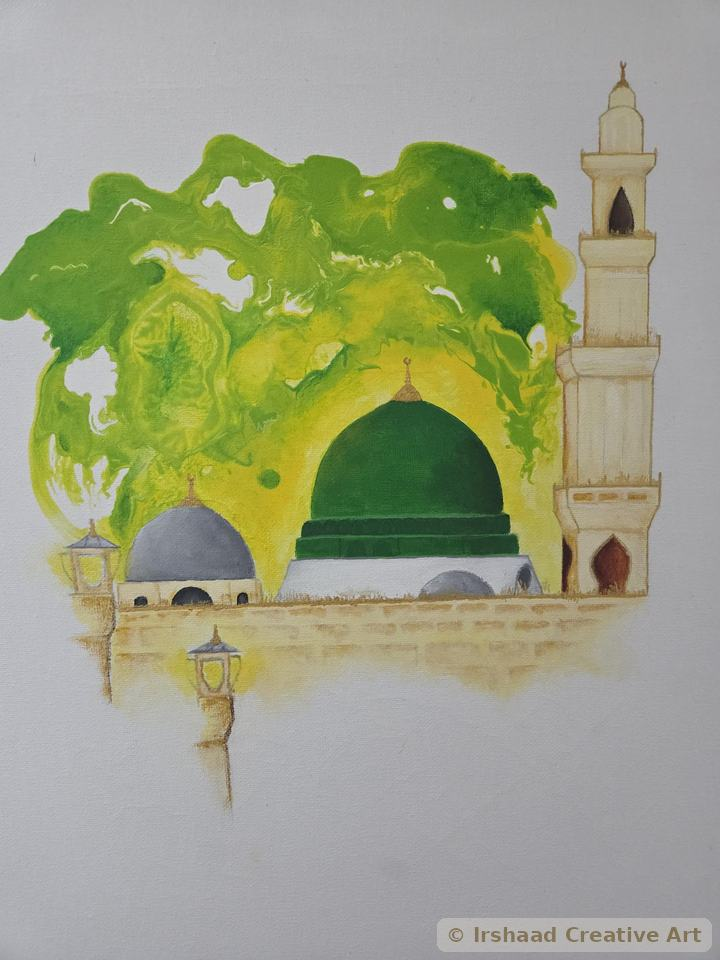
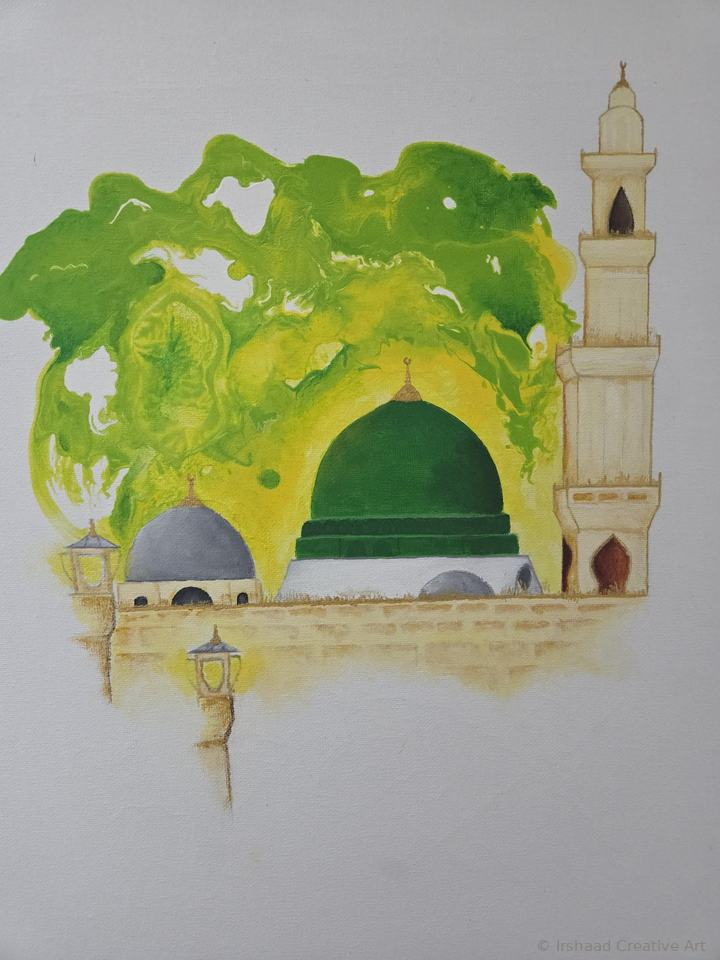
v130: watermerk heel subtiel, regel onder het schilderij weg
Claude-Session: https://claude.ai/code/session_01JY69MZKw5SzGHAsGNA9qVx

Changed region(s): [[0.6111, 0.9375, 1.0, 1.0]]

diff --git a/index.html b/index.html
@@ -8170,7 +8170,7 @@ return exports;})();
   function artHtml(q) {
     const t = [q.question, q.explanation, correctText(q)].join(" ");
     const a = ART.find(function (x) { return x.re.test(t); });
-    return a ? '<figure class="q-art"><img src="' + a.f + '" alt="' + a.alt + '" loading="lazy" decoding="async"><figcaption>© Irshaad Creative Art</figcaption></figure>' : "";
+    return a ? '<figure class="q-art"><img src="' + a.f + '" alt="' + a.alt + '" loading="lazy" decoding="async"></figure>' : "";
   }
   function feedbackHtml(it) {
     const q = it.q, ok = it.correct, junior = quiz.level !== "expert";

diff --git a/sw.js b/sw.js
@@ -1,6 +1,6 @@
 /* Islam Quiz – service worker (netwerk eerst, cache als terugval)
    Verhoog CACHE_VERSION bij elke release. Zo zien bezoekers altijd meteen de nieuwste versie. */
-const CACHE_VERSION = "islam-quiz-v129";
+const CACHE_VERSION = "islam-quiz-v130";
 const QURAN_CACHE = "iq-quran-1";   // Koran-tekst en -lettertype: blijven bewaard tussen versies (offline lezen)
 const PRECACHE = [];
 
